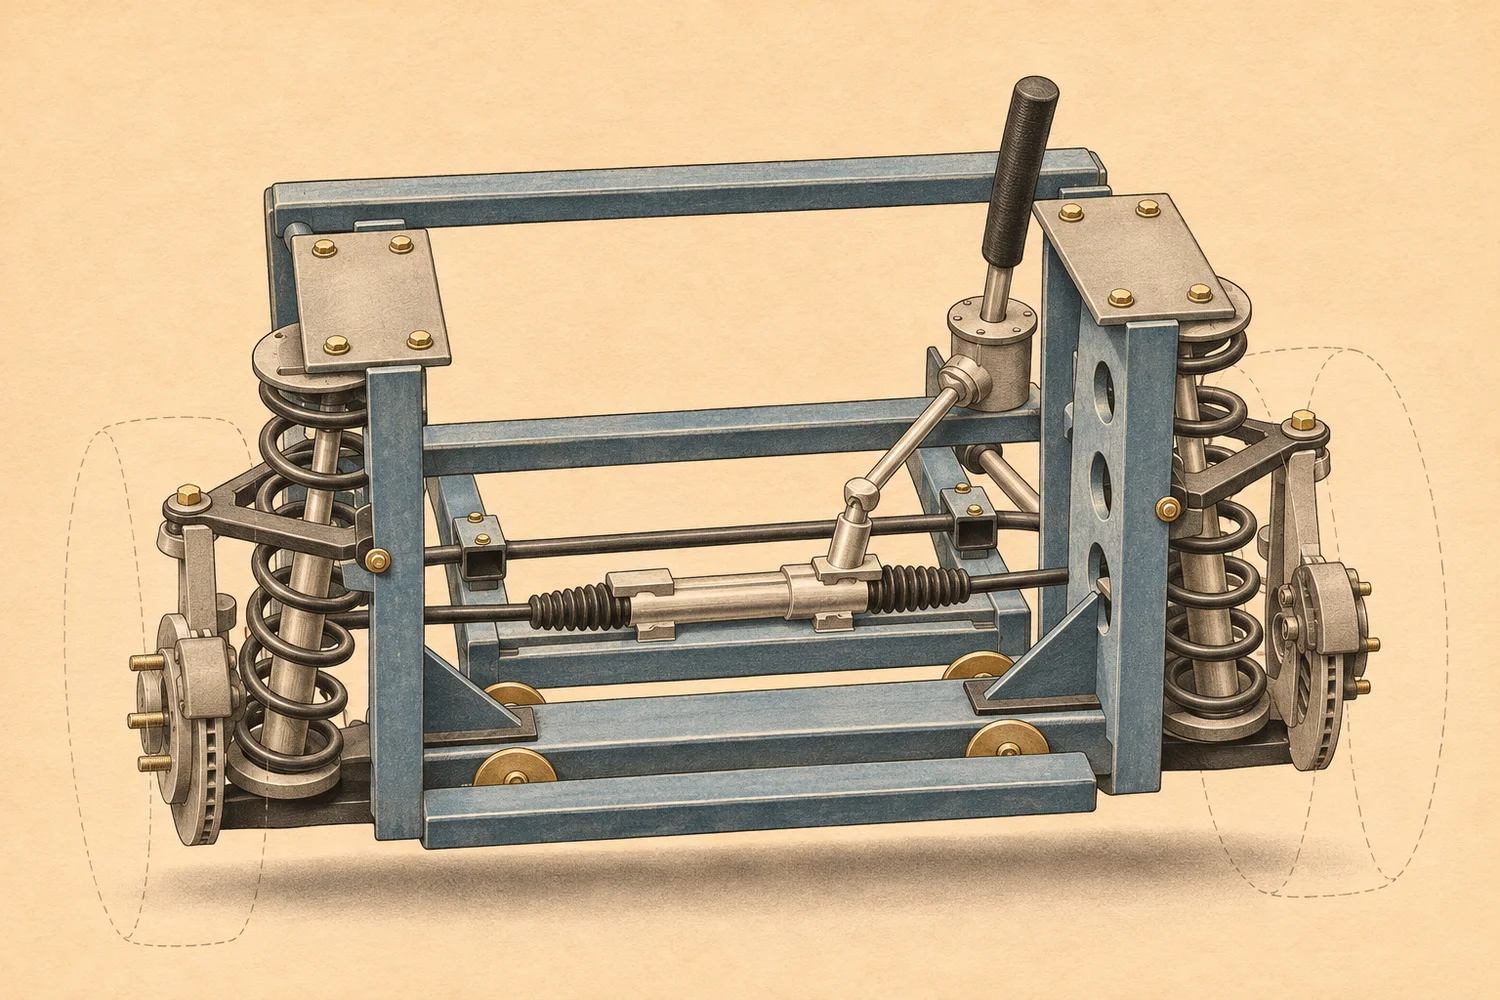
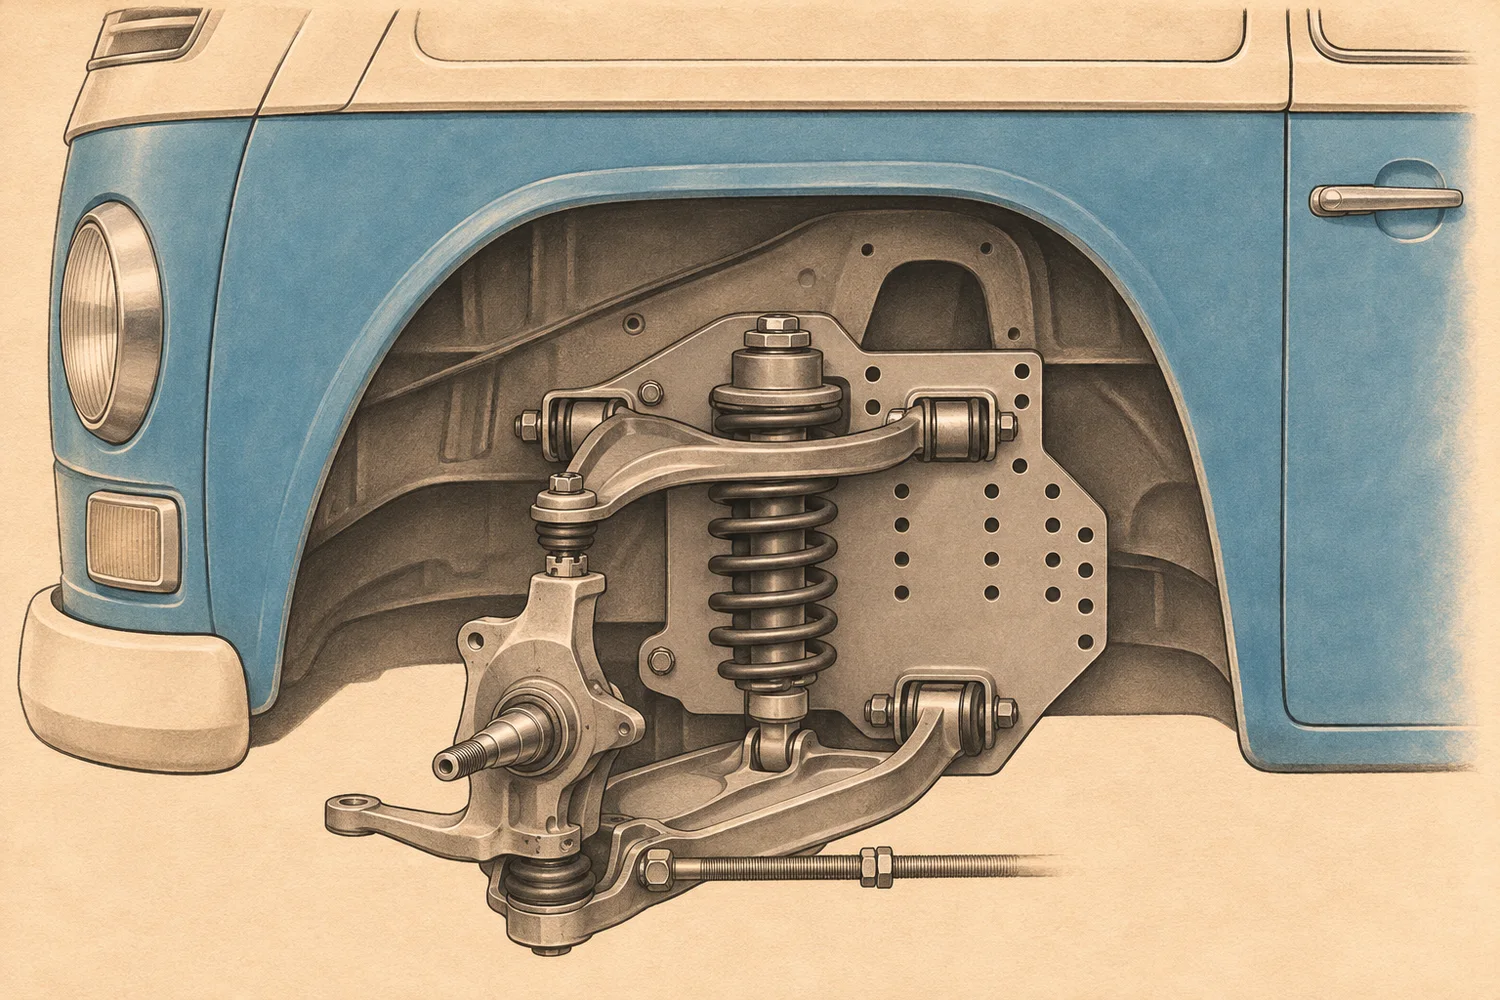
A-Arm: plate shows the kit mounted in a Bay fender

diff --git a/index.html b/index.html
@@ -309,7 +309,7 @@ footer .ig{color:var(--cyan);font-weight:800;text-decoration:none;letter-spacing
         <li>Steering rack laid out like a Vanagon, with a bevel box</li>
       </ul>
     </div>
-    <div class="media plate rise"><img width="1500" height="1000" src="img/kit-a-arm-t3.webp" alt="Vintage service manual style drawing of the front suspension assembly with subframe, coil springs, A-arms, steering rack and bevel box, tires shown as dashed outlines" loading="lazy"></div>
+    <div class="media plate rise"><img width="1500" height="1000" src="img/kit-a-arm-t3.webp" alt="Vintage service manual style drawing of the front wheel arch of a blue Bay Window bus with the wheel off, showing stamped A-arms, a coil spring and shock, a steering knuckle and a radius rod on a bolt-in mounting plate" loading="lazy"></div>
   </div>
 </section>
 <section class="block product" id="engine">
